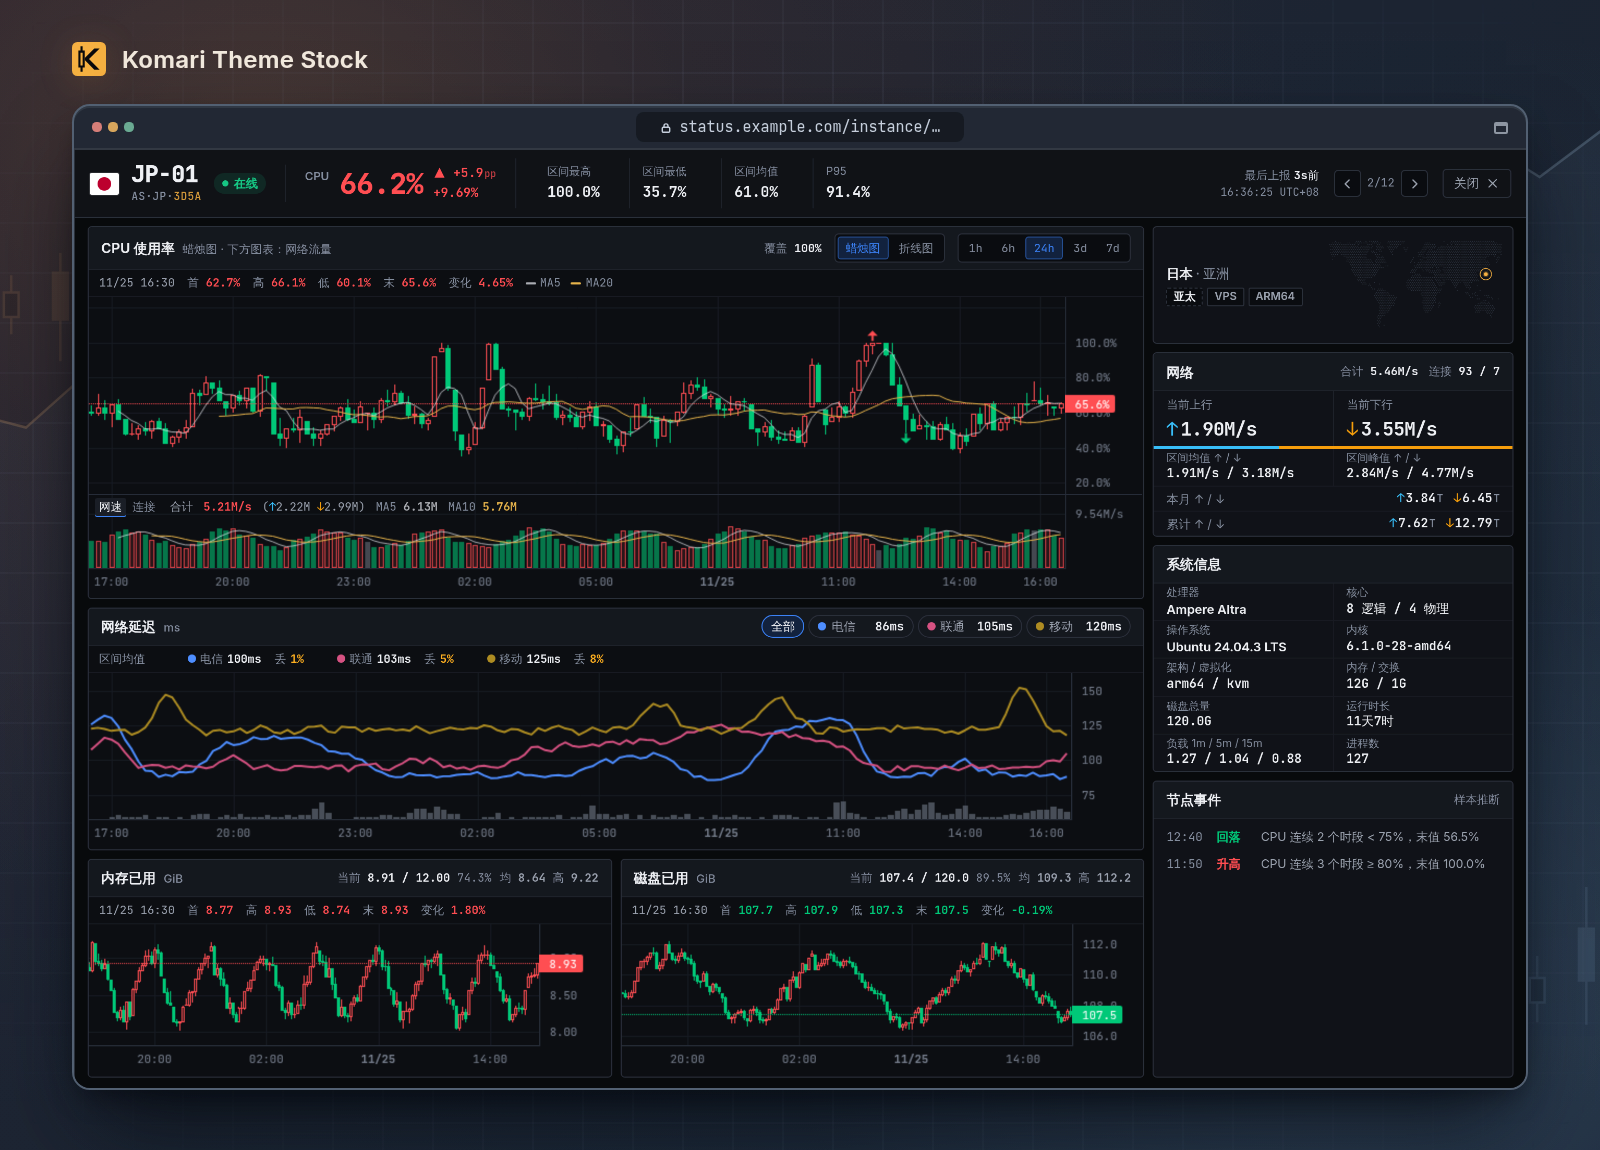
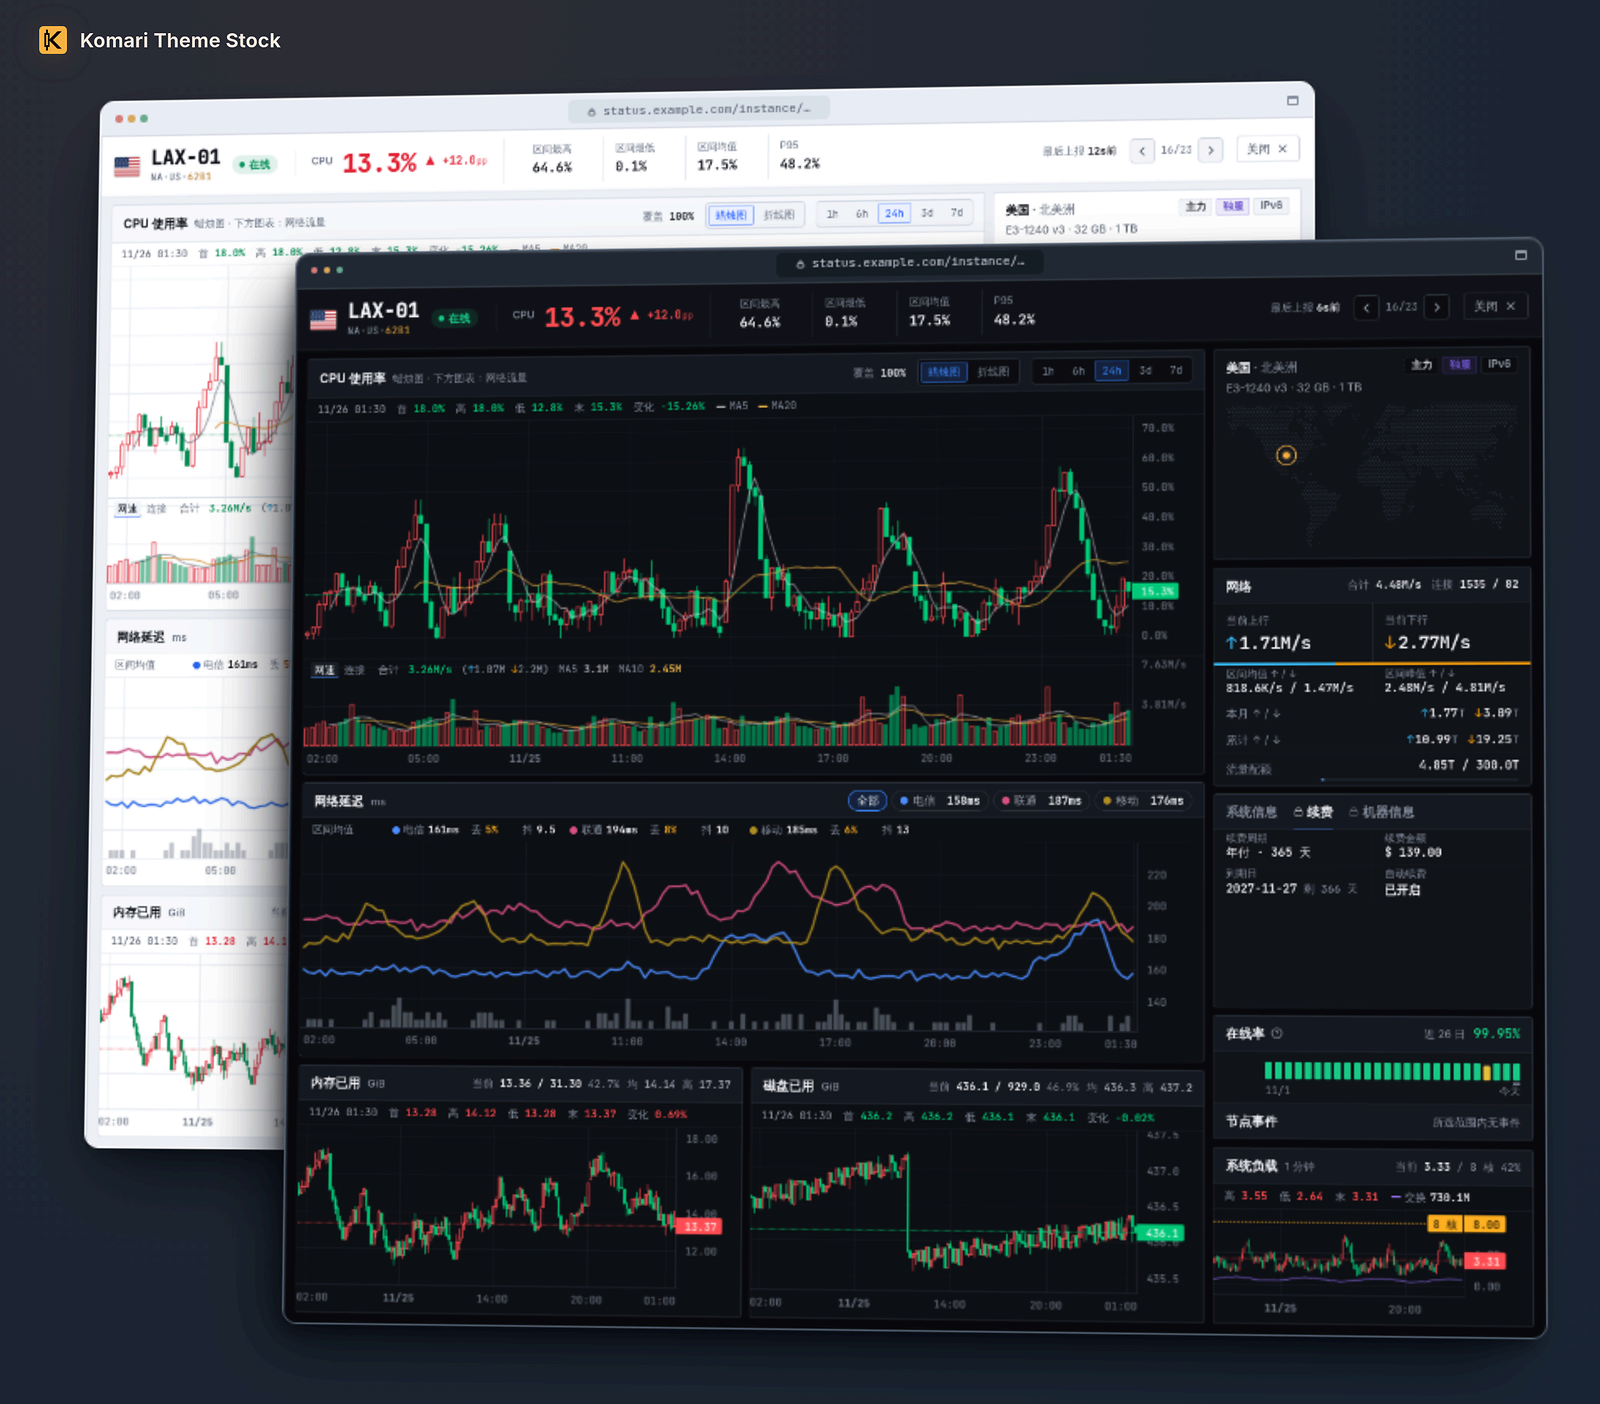
docs: new screenshots in alternating themes, and the detail page's newer panels
The screenshots are taken again from the offline fixture, now with the deployment-based nodes:
- preview.png: the dark board grouped by continent (Asia, Europe, North America, Oceania), 10 of
  its 23 rows, with the summary above.
- detail.png: LAX-01's detail in the dark and the light theme, stacked in depth with the dark one
  in front: latency per carrier, the billing tab, the availability strip and the system load chart.
- mobile.png: three phones, dark, light and dark: the board, WAW-01 with an offline day opened, and
  the charts after "show in charts".

The README describes what the detail page gained: the system load chart against the core count
with swap, the 30-day availability strip and showing a day in the charts, the billing and machine
tabs (with Komari's offline notice), how availability and load are worked out, the chart type
setting, and the mock's 23 nodes. The image texts follow the new screenshots.

diff --git a/README.md b/README.md
@@ -8,9 +8,11 @@
 
 ## 核心亮点
 
-- **查看节点运行状态。** 首页汇总在线和离线节点数、资源使用率及网络流量。节点列表支持按大洲或后台分组，也可搜索和排序；CPU、内存和磁盘列默认同时显示当前使用率和近 1 小时趋势。
-- **回溯资源与网络变化。** 节点详情以蜡烛图或折线图展示 CPU 使用率、内存用量和磁盘用量。CPU 使用率与上下行速率共用时间轴，便于对照同一时段的变化；缺测区间留空。
-- **自定义显示。** 支持深色、浅色或跟随系统，也可单独切换指标上升与下降的颜色。
+- **查看节点运行状态。** 首页汇总在线和离线节点数、高负载节点、内存占用和网络流量。节点列表支持按大洲或后台分组，也可搜索和排序；CPU、内存和磁盘列默认同时显示当前使用率和近 1 小时趋势，另列出 1 分钟负载、实时网速、本月流量和累计流量。
+- **回溯资源与网络变化。** 节点详情以蜡烛图或折线图展示 CPU 使用率、内存用量、磁盘用量和系统负载。CPU 使用率与上下行速率共用时间轴，所有图表共享十字线、定位和缩放，便于对照同一时段的变化；缺测区间留空。网络延迟按探测线路分别绘制，并给出丢包和抖动（σ）。
+- **判断负载是否过高。** 系统负载图用虚线标出逻辑核心数，负载越过虚线表示有任务在排队等待 CPU；使用了交换空间的节点会叠加显示交换用量。
+- **追溯节点可用性。** 「节点事件」卡片顶部的在线率条按天显示最多 30 天的在线情况，柱子的颜色和高度都表示级别（正常、短暂离线、部分离线、严重离线）。点开某天可查看离线时段，点「在图表中查看」把所有图表定位到当天。下方列出从样本推断的 CPU 升高与回落、内存高和缺测等事件。
+- **自定义显示。** 支持深色、浅色或跟随系统，可在蜡烛图和折线图之间切换，也可单独设置指标上升与下降的颜色。
 - **多语言界面。** 界面语言跟随浏览器自动选择，支持简体中文、繁體中文、English、日本語、한국어、Русский、Deutsch、Français、Español、Português (Brasil) 和 Bahasa Indonesia；其他语言显示英文，也可在「设置」中手动切换。
 - **使用键盘导航。** `/` 聚焦搜索；聚焦节点列表后，用 `↑` / `↓` 选择节点、`Enter` 打开详情；在详情中用 `[` / `]` 切换节点、`Esc` 返回。
 
@@ -32,27 +34,30 @@
 
 1. 打开 Komari 首页，在「全部节点」列表中按节点名、地区或标签搜索，找到要检查的节点。
 2. 打开节点详情并选择时间范围。将光标移到 CPU 使用率图表上，可对照同一时段的 CPU 使用率与网络上下行速率。
+3. 在「节点事件」卡片顶部的在线率条上点开某天，可查看当天的离线时段；点「在图表中查看」，所有图表会定位到这一天。
 
 ## 界面预览
 
-**VPS 监控概览**
+**节点总览**
 
-![浅色和深色桌面监控首页，均显示本月与累计流量；右侧手机展示双行节点列表，第一行显示节点、CPU 趋势和变化量，第二行显示内存、磁盘和网络指标](./docs/images/preview.png)
+![深色桌面首页，节选 23 台中的 10 行：顶部汇总 22 台在线、1 台离线、1 台高负载；列表按亚洲、欧洲、北美洲、大洋洲分组，组标题给出平均 CPU 使用率和在线台数；HKG-04 离线，SYD-01 的 CPU 为 100%；每行显示 CPU、内存和磁盘的近 1 小时趋势，以及 1 分钟负载、网速、本月流量和累计流量](./docs/images/preview.png)
 
 **节点详情**
 
-![深色桌面 JP-01 节点详情：24 小时 CPU 蜡烛图、下方的网速图、网络延迟、内存及磁盘用量；右侧是节点位置、含本月与累计流量的网络面板、系统信息和节点事件](./docs/images/detail.png)
+![LAX-01 节点详情（24 小时）的深色与浅色两个主题立体叠放，深色在前：左侧是 CPU 蜡烛图与下方的网速图、电信 / 联通 / 移动三条线路的网络延迟（含丢包和抖动）、内存与磁盘用量；右侧是节点位置与地图、含流量配额的网络面板、登录后可见的续费标签页（年付 $139.00）、近 26 日在线率 99.95%，以及标出 8 核虚线并叠加交换用量的系统负载图](./docs/images/detail.png)
 
-**移动端**
+**移动端：从总览到定位离线**
 
-![三部手机依次展示深色节点列表、带顶部导航和底部定位栏的 HK-01 详情（CPU 蜡烛图及网络延迟卡片），以及浅色显示设置](./docs/images/mobile.png)
+![三部手机深浅交替：深色节点列表按大洲分组，底栏提示 HKG-04 离线；浅色 WAW-01 详情，展开 11 月 25 日的部分离线（在线 93.47%，离线约 1 小时 34 分），下方 1 分钟负载 5.83 高于 5 核虚线；深色 WAW-01 详情，点「在图表中查看」后图表定位到当天 05:00 的离线开始](./docs/images/mobile.png)
 
 ## 设置与数据口径
 
-- **访客设置：** 首页「设置」可选择界面语言，调整指标变化配色、近 1 小时趋势曲线、实时刷新间隔、详情默认时间范围和节点事件的显示。设置仅保存在当前浏览器；深浅色模式可通过顶栏按钮切换。
+- **访客设置：** 首页「设置」可选择界面语言，调整升降配色、近 1 小时趋势线、实时刷新间隔、详情的默认时间范围、图表类型（蜡烛图或折线图），以及是否显示节点事件。设置仅保存在当前浏览器；深浅色模式可通过顶栏按钮切换。
 - **站点设置：** 后台的主题设置决定首页按大洲（默认）、后台分组或不分组展示。
-- **仅登录可见：** 登录 Komari 后台后，主题额外显示隐藏节点（带「隐藏」标记，可临时不显示），详情页多出「运维 · 续费」面板：节点 IP（默认打码，可复制完整地址）、Agent 版本和续费信息。续费金额等字段在 Komari 的公开接口里仍会下发给访客，主题只是不显示；需要真正保密时，请在后台开启私有站点，或不填写金额。
+- **仅登录可见：** 登录 Komari 后台后，主题额外显示隐藏节点（带「隐藏」标记，可临时不显示）。详情页的「系统信息」旁多出两个标签页：「续费」显示续费周期、金额、到期日和自动续费；「机器信息」显示节点 IP（默认打码，可复制完整地址）、Agent 版本，以及 Komari 对该节点的离线通知设置和上次通知时间。续费金额等字段在 Komari 的公开接口里仍会下发给访客，主题只是不显示；需要真正保密时，请在后台开启私有站点，或不填写金额。
 - **流量：** 指标保留期覆盖当月至今且月度数据可用时，显示本月流量；否则显示节点上报的累计流量。详情可选时间范围受指标保留期限制。
+- **在线率：** Komari 不保存节点的在线和离线记录，主题按节点每小时上报的样本数推断每日在线率：没有上报的时段记为离线，与 Komari 的在线判定一致。全天离线不足约 3 分钟为正常，不足约 29 分钟为短暂离线，不足约 2.4 小时为部分离线，更长为严重离线。在线率条只显示 Komari 仍保留小时级数据的日子（默认保留 600 小时，约 25 天），节点添加之前的日子不显示。
+- **系统负载：** 图表使用 Komari 记录的 1 分钟负载。卡片标题栏显示当前负载、逻辑核心数和两者之比；比值达到 100% 时以警示色显示，表示有任务在排队等待 CPU。
 
 ## 本地预览
 
@@ -63,7 +68,7 @@ npm ci
 npm run dev:mock
 ```
 
-打开终端打印的地址，可查看 12 台模拟节点，无需 Komari 后端。点击顶栏「登录」进入模拟的登录状态（多出 1 台隐藏节点和仅登录可见的内容），访问 `/__mock/logout` 退出。
+打开终端打印的地址，可查看 23 台模拟节点，无需 Komari 后端。模拟节点的配置和负载水平参照一套真实部署，名称、分组、备注和价格均已改动。点击顶栏「登录」进入模拟的登录状态（多出 1 台隐藏节点和仅登录可见的内容），访问 `/__mock/logout` 退出。
 
 ## 开发与打包
 
